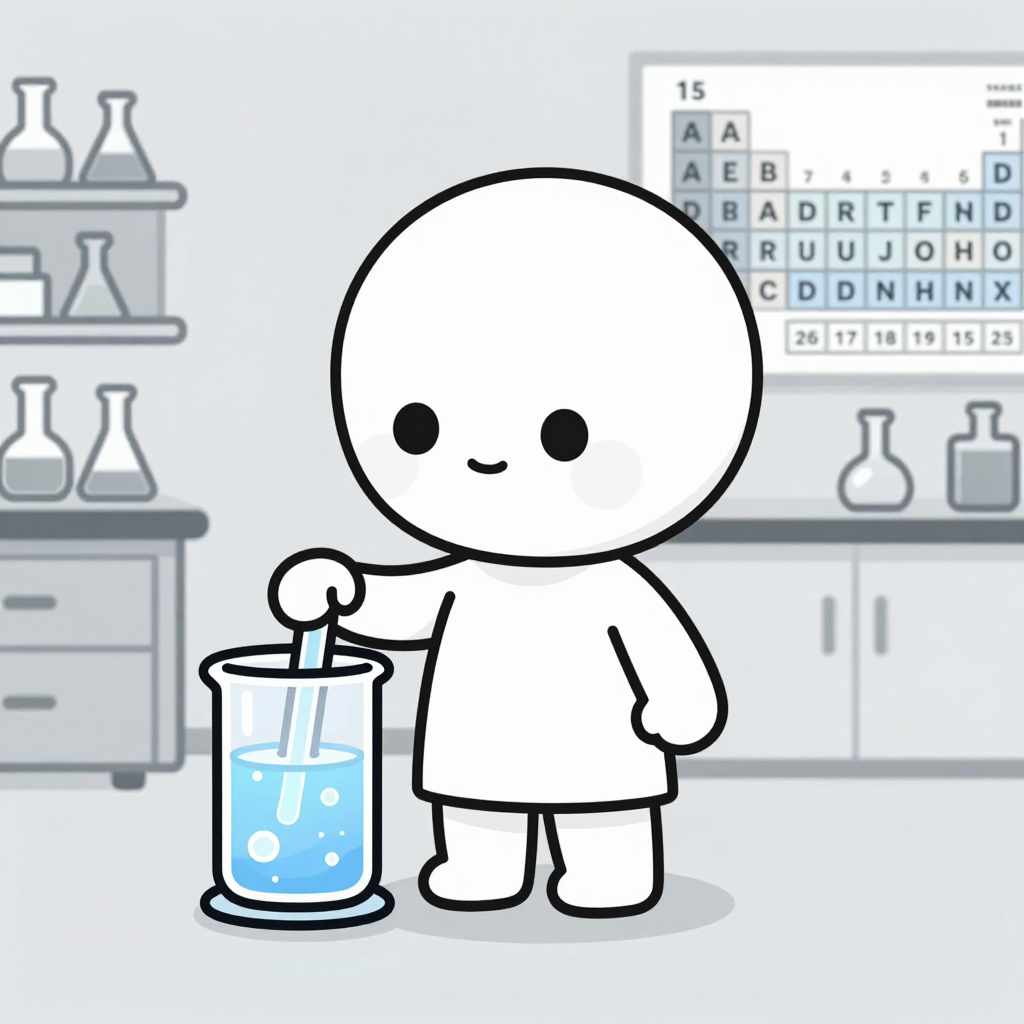
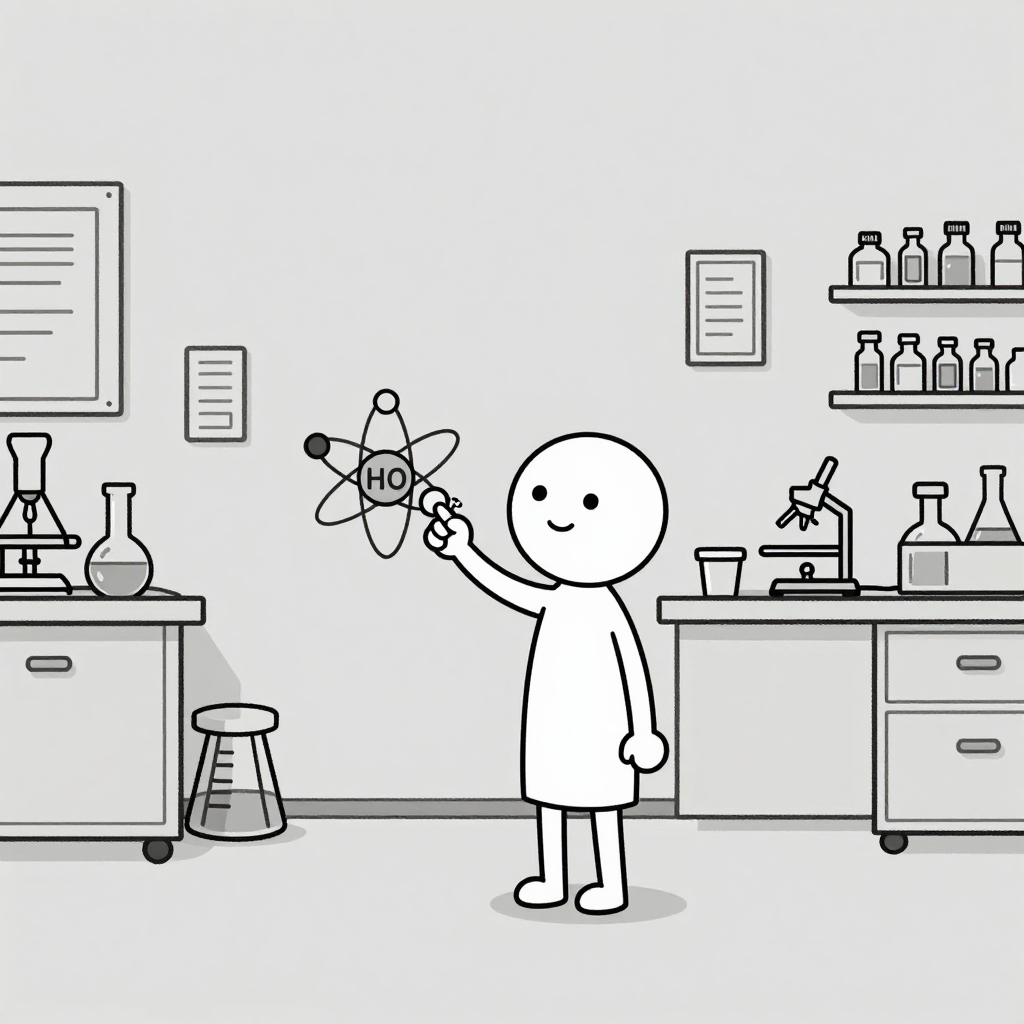
feat: 중1 27단원 빠진 그림 1장 생성 및 등록
대상: hydrogen

diff --git a/README.md b/README.md
@@ -31,6 +31,8 @@ npm run lint     # ESLint
 ## 작업 내역
 
 ### 2026-09-13
+- 중1 27단원 빠진 그림 1장 Draw Things 선형그래픽으로 생성 및 등록
+  - 대상 단어: hydrogen
 - 선형그래픽 스킬의 사람 모양을 사용자 레퍼런스에 맞춰 개정 (`draw-things-linear-graphic`)
   - 가는 막대 인간(선 한 줄 팔다리) 대신 머리 폭 절반 정도의 좁고 긴 몸통 + 선 두 줄로 두께가 보이는 짧은 튜브 팔다리로 바꿈
   - `cute`·`chibi`·`plump` 낱말이 머리를 키우고 몸을 넓히며 볼 홍조를 만들어 프롬프트에서 뺌 (z_image_turbo 는 부정 프롬프트를 거의 따르지 않아 긍정 문장으로 모양을 정함)
